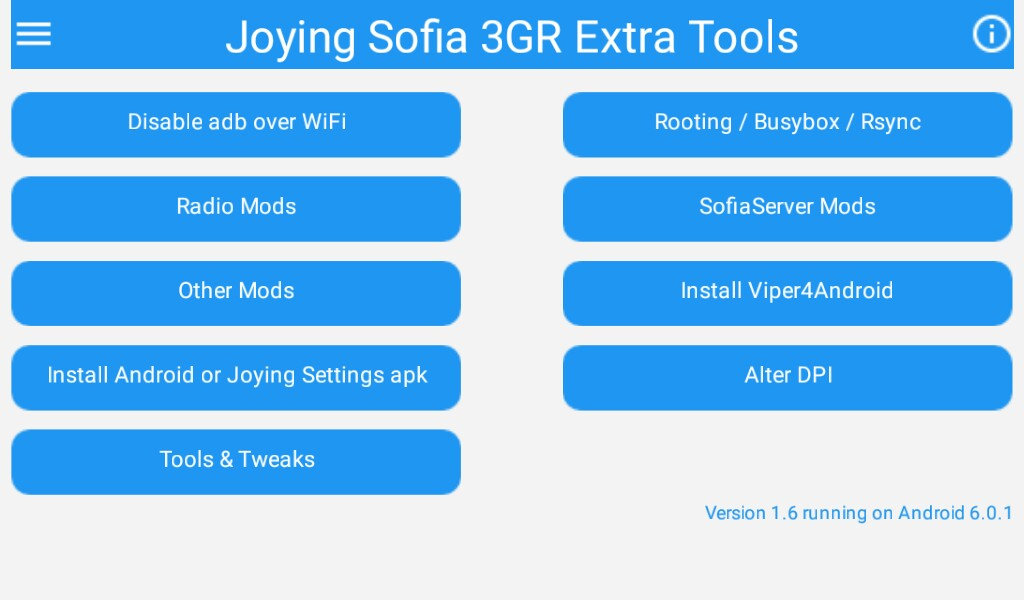
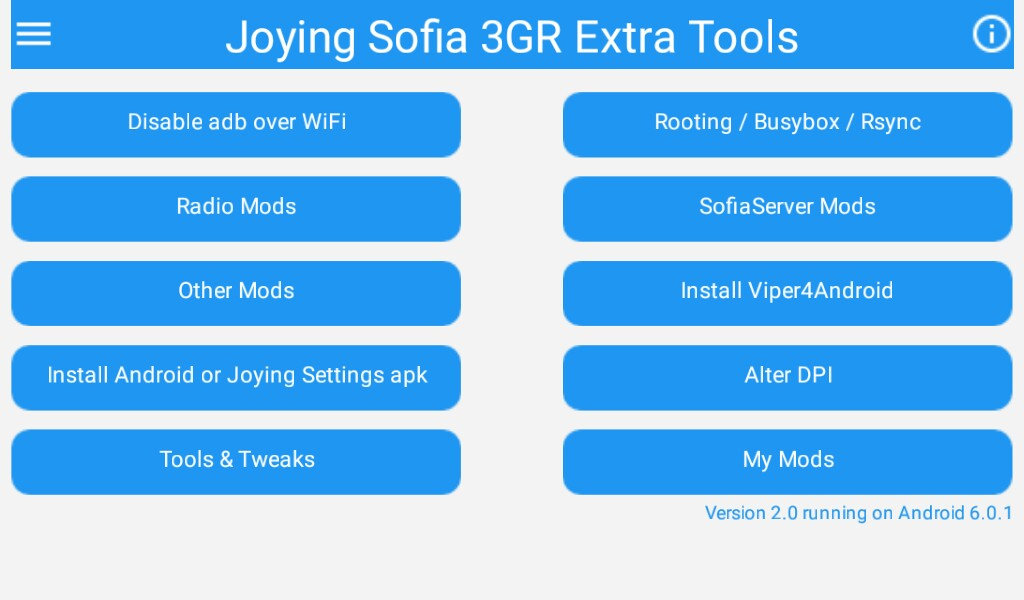
update pages for version 2

Changed region(s): [[0.5312, 0.69, 1.0, 0.87]]

diff --git a/Changelog.html b/Changelog.html
@@ -24,27 +24,32 @@
 <center>
 <table border="0" width="940"><tr><td>
             <!-- First  "menu" -->
-           <p class="menu"><a href="https://hvdwolf.github.io/Joying-RootAssistant/">Home</a> &nbsp;&nbsp;&nbsp;<a href="https://github.com/hvdwolf/Joying-RootAssistant/releases">Downloads</a>&nbsp;&nbsp;&nbsp;<a href="manual.html">Manual</a>&nbsp;&nbsp;&nbsp;<a href="rooting.html">Rooting</a>&nbsp;&nbsp;&nbsp;<a href="credits.html">Credits</a> &nbsp;&nbsp;&nbsp;  <a href="https://github.com/hvdwolf/Joying-RootAssistant/">Source code</a></p>
+           <p class="menu"><a href="https://hvdwolf.github.io/Joying-RootAssistant/">Home</a>&nbsp;&nbsp;&nbsp;<a href="https://github.com/hvdwolf/Joying-RootAssistant/releases">Downloads</a>&nbsp;&nbsp;&nbsp;<a href="manual.html">Manual</a>&nbsp;&nbsp;&nbsp;<a href="rooting.html">Rooting</a>&nbsp;&nbsp;&nbsp;<a href="credits.html">Credits</a>&nbsp;&nbsp;&nbsp;<a href="mymods.html">My Mods</a>&nbsp;&nbsp;&nbsp;<a href="https://github.com/hvdwolf/Joying-RootAssistant/">Source code</a></p>
 
 
     <ul>
         <li>ToDo:
             <ul>
-                <li>Add button "My Mods". This option can be used to install your own mods or distribute your mods in a zip to other users. Needs a local xml file (<a href="https://raw.githubusercontent.com/hvdwolf/Joying-RootAssistant/apk/mymods/my-jet-mods.xml" target="mymods">example</a>)</li>
                 <li>Expand network detection options. It now only looks for wifi. Will check as well for eth0.</li>
                 <li>Add option to mount/unmount SD-cards.</li>
                 <li>(Maybe) Add option to format SD-cards.</li>
             </ul>
             <p> </p>
         </li>
-<!--       <li>xy August 2017, V 2.0
+       <li>24 August 2017, V 2.0
             <ul>
-                <li>Added button with pull down menu "My Mods". This option can be used to install your own mods, or distribute your mods in a zip to other users. Needs a local xml file (<a href="https://raw.githubusercontent.com/hvdwolf/Joying-RootAssistant/apk/mymods/my-jet-mods.xml" target="mymods">example</a>)</li>
-                <li>Internal: Full rewrite of menu sctructure. Was a big complex (messy) manual structure. Is now an autogenerated menu structure based on an internal xml file.</li>
-                <li>Internal: Big partial rewrite of jetscript script based on menu structure change.</li>
+                <li>Added button with pull down menu "My Mods". This option can be used to install your own mods, or distribute your mods other users. It needs a local xml file (<a href="https://raw.githubusercontent.com/hvdwolf/Joying-RootAssistant/apk/mymods/mymods.xml" target="mymods">example</a>).<br>See an explanation of the functionality on the <a href="https://hvdwolf.github.io/Joying-RootAssistant/mymods.html" target="top">My Mods</a> page.</li>
+                <li>Added a splash screen.</li>
+                <li>Added another "Sharing" option (top-left menu) so you can easily share your temperature & CPU freq measurement csv files to GDrive/dropbox/mail/whatever.</li>
+                <li>Added Krzycho26's "space" radio mod and his "jeans" Bluetooth mod (credits to Krzycho26).</li>
+                <li>Added a "Remove all application logs and csv files" option (top-left menu).</li>
+                <li>Internal: Some rewriting of functions.</li>
+                <li>Internal: Partial rewrite of menu sctructure. Was a big complex (messy) manual structure. Is now partially an autogenerated menu structure.</li>
+                <li>Internal: Partial rewrite of jetscript script, also a major cleanup of messy code.</li>
+                <li>Added a "donate to me" option in the top-left menu (Feel free to ignore :) ). I also added it to the index of the website.</li>
             </ul>
              <p> </p>
-       </li> -->
+       </li>
          <li>11 August 2017, V 1.6
             <ul>
                 <li>I use the rom build date in the ROMS as marker for installing certain apks (For example: the 07 July release has a zip date of 5 July, but a build date (ro.builddate) of 29 June 2017). Joying publishes their releases via their <a href="https://www.carjoying.com/blog/joying-head-unit-after-sale-support/59.html">Blog</a>. However, it turns out though that they also publish "intermediate" builds when sending their units to customers. We already detected a 15 June 2017 ROM as well. That requires extra "if-then-else" statements to check on these build dates.</li>

diff --git a/manual.html b/manual.html
@@ -22,7 +22,7 @@
 <center>
 <table border="0" width="940"><tr><td>
     <!-- First  "menu" -->
-           <p class="menu"><a href="https://hvdwolf.github.io/Joying-RootAssistant/">Home</a> &nbsp;&nbsp;&nbsp;<a href="https://github.com/hvdwolf/Joying-RootAssistant/releases">Downloads</a>&nbsp;&nbsp;&nbsp;<a href="manual.html">Manual</a>&nbsp;&nbsp;&nbsp;<a href="rooting.html">Rooting</a>&nbsp;&nbsp;&nbsp;<a href="credits.html">Credits</a> &nbsp;&nbsp;&nbsp;  <a href="https://github.com/hvdwolf/Joying-RootAssistant/">Source code</a></p>
+           <p class="menu"><a href="https://hvdwolf.github.io/Joying-RootAssistant/">Home</a>&nbsp;&nbsp;&nbsp;<a href="https://github.com/hvdwolf/Joying-RootAssistant/releases">Downloads</a>&nbsp;&nbsp;&nbsp;<a href="manual.html">Manual</a>&nbsp;&nbsp;&nbsp;<a href="rooting.html">Rooting</a>&nbsp;&nbsp;&nbsp;<a href="credits.html">Credits</a>&nbsp;&nbsp;&nbsp;<a href="mymods.html">My Mods</a>&nbsp;&nbsp;&nbsp;<a href="https://github.com/hvdwolf/Joying-RootAssistant/">Source code</a></p>
 
     <H3>Note that actual screens and menus in the application may differ from the ones on this webpage.</H3><i>Click a screenshot for a fullsize version.</i>
     <p>If you start the apk you will see the following screen upon startup.<br><a href="images/disclaimer.jpg"><img src="images/thumb-disclaimer.jpg"></a><br>
@@ -76,6 +76,7 @@
     <H2>The options from the main screen.</H2>
     <p>Again: If you do accept you will see:<br><a href="images/mainscreen.jpg"><img src="images/thumb-mainscreen.jpg"></a></p>
     <p>Note that some options are buttons and others are "list pickers" (drop-down options).</p>
+    <p>The "My Mods" list picker has its own "HowTo" page. See the <a href="mymods.html">My Mods</a> page and menu link.</p>
     <p>Note also that the buttons/listpickers that allow you to install mods, also contain the original Joying apk. In case it doesn't work for you, you can always install/restore the Joying original.</p>
     <ul>
     <li><strong>Enable adb over WiFi</strong> or <strong>Disable adb over WiFi</strong>: Depending on the current setting of the unit.<br>adb over WiFi is very handy, as you can access your unit from a distance. At the same time it is a security risk. When enabled, everyone able to "join" your WiFi network can within a minute access your unit on root level without even having to specify a password.<br> A good measure is always a strong password on your WiFi network (or your hot spot). This makes it off course much harder to hack. But if you don't need it, switch it off.</li>

diff --git a/credits.html b/credits.html
@@ -24,7 +24,7 @@
         <center>
         <table border="0" width="940"><tr><td>
             <!-- First  "menu" -->
-           <p class="menu"><a href="https://hvdwolf.github.io/Joying-RootAssistant/">Home</a> &nbsp;&nbsp;&nbsp;<a href="https://github.com/hvdwolf/Joying-RootAssistant/releases">Downloads</a>&nbsp;&nbsp;&nbsp;<a href="manual.html">Manual</a>&nbsp;&nbsp;&nbsp;<a href="rooting.html">Rooting</a>&nbsp;&nbsp;&nbsp;<a href="credits.html">Credits</a> &nbsp;&nbsp;&nbsp;  <a href="https://github.com/hvdwolf/Joying-RootAssistant/">Source code</a></p>
+           <p class="menu"><a href="https://hvdwolf.github.io/Joying-RootAssistant/">Home</a>&nbsp;&nbsp;&nbsp;<a href="https://github.com/hvdwolf/Joying-RootAssistant/releases">Downloads</a>&nbsp;&nbsp;&nbsp;<a href="manual.html">Manual</a>&nbsp;&nbsp;&nbsp;<a href="rooting.html">Rooting</a>&nbsp;&nbsp;&nbsp;<a href="credits.html">Credits</a>&nbsp;&nbsp;&nbsp;<a href="mymods.html">My Mods</a>&nbsp;&nbsp;&nbsp;<a href="https://github.com/hvdwolf/Joying-RootAssistant/">Source code</a></p>
 
 
         <center><H2>Credits</H2></center>
@@ -53,6 +53,7 @@
                     <li>Red Sanangel mod => <a href="https://forum.xda-developers.com/member.php?u=5944015" class="bdtext">sanangel</a></li>
                     <li>DarkBlue-Red Wilk7 mod => <a href="https://forum.xda-developers.com/member.php?u=8145104" class="bdtext">wilk7</a></li>
                     <li>Thodai mod => <a href="https://forum.xda-developers.com/member.php?u=7789261" class="bdtext">thodai</a></li>
+                    <li>Krzycho26 "space" mod=><a href="https://forum.xda-developers.com/member.php?u=4561595" class="bdtext">krzycho26</a></li>
                 </ul>
             </li>
             <li>Modded apps: other colors and layout: 

diff --git a/rooting.html b/rooting.html
@@ -24,7 +24,7 @@
         <center>
         <table border="0" width="940"><tr><td>
             <!-- First  "menu" -->
-           <p class="menu"><a href="https://hvdwolf.github.io/Joying-RootAssistant/">Home</a> &nbsp;&nbsp;&nbsp;<a href="https://github.com/hvdwolf/Joying-RootAssistant/releases">Downloads</a>&nbsp;&nbsp;&nbsp;<a href="manual.html">Manual</a>&nbsp;&nbsp;&nbsp;<a href="rooting.html">Rooting</a>&nbsp;&nbsp;&nbsp;<a href="credits.html">Credits</a> &nbsp;&nbsp;&nbsp;  <a href="https://github.com/hvdwolf/Joying-RootAssistant/">Source code</a></p>
+           <p class="menu"><a href="https://hvdwolf.github.io/Joying-RootAssistant/">Home</a>&nbsp;&nbsp;&nbsp;<a href="https://github.com/hvdwolf/Joying-RootAssistant/releases">Downloads</a>&nbsp;&nbsp;&nbsp;<a href="manual.html">Manual</a>&nbsp;&nbsp;&nbsp;<a href="rooting.html">Rooting</a>&nbsp;&nbsp;&nbsp;<a href="credits.html">Credits</a>&nbsp;&nbsp;&nbsp;<a href="mymods.html">My Mods</a>&nbsp;&nbsp;&nbsp;<a href="https://github.com/hvdwolf/Joying-RootAssistant/">Source code</a></p>
 
 
         <center><H2>Root your unit</H2></center>

diff --git a/index.html b/index.html
@@ -24,7 +24,7 @@
 <center>
 <table border="0" width="940"><tr><td>
             <!-- First  "menu" -->
-           <p class="menu"><a href="https://hvdwolf.github.io/Joying-RootAssistant/">Home</a> &nbsp;&nbsp;&nbsp;<a href="https://github.com/hvdwolf/Joying-RootAssistant/releases">Downloads</a>&nbsp;&nbsp;&nbsp;<a href="manual.html">Manual</a>&nbsp;&nbsp;&nbsp;<a href="rooting.html">Rooting</a>&nbsp;&nbsp;&nbsp;<a href="credits.html">Credits</a> &nbsp;&nbsp;&nbsp;  <a href="https://github.com/hvdwolf/Joying-RootAssistant/">Source code</a></p>
+           <p class="menu"><a href="https://hvdwolf.github.io/Joying-RootAssistant/">Home</a>&nbsp;&nbsp;&nbsp;<a href="https://github.com/hvdwolf/Joying-RootAssistant/releases">Downloads</a>&nbsp;&nbsp;&nbsp;<a href="manual.html">Manual</a>&nbsp;&nbsp;&nbsp;<a href="rooting.html">Rooting</a>&nbsp;&nbsp;&nbsp;<a href="credits.html">Credits</a>&nbsp;&nbsp;&nbsp;<a href="mymods.html">My Mods</a>&nbsp;&nbsp;&nbsp;<a href="https://github.com/hvdwolf/Joying-RootAssistant/">Source code</a></p>
 
 
     <H1>This site contains:</H1>
